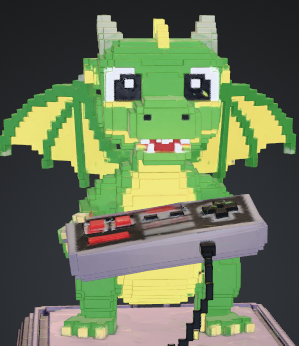
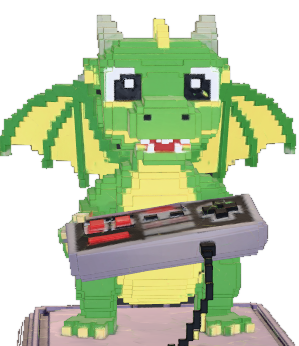
Update characters and transparent assets

diff --git a/public/play/index.html b/public/play/index.html
@@ -12,7 +12,7 @@
   <link rel="manifest" href="/manifest.webmanifest">
   <link rel="apple-touch-icon" href="/icons/icon.svg">
   <title>בראול כלווי - BrawlClaUi</title>
-  <link rel="stylesheet" href="style.css?v=61">
+  <link rel="stylesheet" href="style.css?v=62">
 </head>
 <body>
   <section id="lobby" class="lobby">
@@ -38,12 +38,12 @@
     </section>
     <label data-i18n="brawlerLabel">YOUR BRAWLER</label>
     <div id="characters" class="choice-grid">
-      <button data-character="blaze" class="selected"><span class="portrait blaze"></span><img class="char-img" src="/characters/blaze.png?v=43" alt="" onerror="this.hidden=true"><span data-i18n="bobName">Bob</span><small data-i18n="blazeDesc"></small></button>
-      <button data-character="boomer" class="locked"><span class="portrait boomer"></span><img class="char-img" src="/characters/boomer.png?v=43" alt="" onerror="this.hidden=true"><span data-i18n="boomerName">Boomer</span><small data-i18n="boomerDesc"></small></button>
-      <button data-character="fangli" class="locked"><span class="portrait fangli"></span><img class="char-img" src="/characters/fangli.png?v=43" alt="" onerror="this.hidden=true"><span data-i18n="fangliName">Fangli</span><small data-i18n="fangliDesc">Long bone shot</small></button>
-      <button data-character="pixel"><span class="portrait pixel"></span><img class="char-img" src="/characters/pixel.png?v=43" alt="" onerror="this.hidden=true"><span data-i18n="pixelName">Pixel</span><small data-i18n="pixelDesc">Ricochet laser</small></button>
-      <button data-character="tank" class="locked"><span class="portrait tank"></span><img class="char-img" src="/characters/tank.png?v=43" alt="" onerror="this.hidden=true"><span data-i18n="auroraName">Aurora</span><small data-i18n="tankDesc">Snowstorm + ice field</small></button>
-      <button data-character="bazaar"><span class="portrait bazaar"></span><img class="char-img" src="/characters/bazaar.png?v=43" alt="" onerror="this.hidden=true"><span data-i18n="bazaarName">Bazaar</span><small data-i18n="bazaarDesc">Coin chain + buff box</small></button>
+      <button data-character="blaze" class="selected"><span class="portrait blaze"></span><img class="char-img" src="/characters/blaze.png?v=62" alt="" onerror="this.hidden=true"><span data-i18n="bobName">Bob</span><small data-i18n="blazeDesc"></small></button>
+      <button data-character="boomer" class="locked"><span class="portrait boomer"></span><img class="char-img" src="/characters/boomer.png?v=62" alt="" onerror="this.hidden=true"><span data-i18n="boomerName">Boomer</span><small data-i18n="boomerDesc"></small></button>
+      <button data-character="fangli" class="locked"><span class="portrait fangli"></span><img class="char-img" src="/characters/fangli.png?v=62" alt="" onerror="this.hidden=true"><span data-i18n="fangliName">Fangli</span><small data-i18n="fangliDesc">Long bone shot</small></button>
+      <button data-character="pixel"><span class="portrait pixel"></span><img class="char-img" src="/characters/pixel.png?v=62" alt="" onerror="this.hidden=true"><span data-i18n="pixelName">Pixel</span><small data-i18n="pixelDesc">Ricochet laser</small></button>
+      <button data-character="tank" class="locked"><span class="portrait tank"></span><img class="char-img" src="/characters/tank.png?v=62" alt="" onerror="this.hidden=true"><span data-i18n="auroraName">Aurora</span><small data-i18n="tankDesc">Snowstorm + ice field</small></button>
+      <button data-character="bazaar"><span class="portrait bazaar"></span><img class="char-img" src="/characters/bazaar.png?v=62" alt="" onerror="this.hidden=true"><span data-i18n="bazaarName">Bazaar</span><small data-i18n="bazaarDesc">Coin chain + buff box</small></button>
     </div>
 
     <label data-i18n="modeLabel">GAME MODE</label>
@@ -119,59 +119,65 @@
       </div>
     </div>
 
+    <section class="admin-section admin-command-section">
+      <label for="admin-command-search" data-i18n="adminCommandSearchLabel">COMMAND SEARCH</label>
+      <input id="admin-command-search" type="search" autocomplete="off" placeholder="Search command" data-i18n-placeholder="adminCommandSearchPlaceholder">
+      <small id="admin-command-hint"></small>
+    </section>
+
     <section class="admin-section">
       <label for="admin-google-account" data-i18n="adminFindSection">FIND PLAYER</label>
       <div class="admin-inline">
-        <input id="admin-google-account" type="email" autocomplete="email" placeholder="Google account" data-i18n-placeholder="adminGooglePlaceholder">
-        <button id="admin-add-google" type="button" data-i18n="adminFindGoogle">Find</button>
+        <input id="admin-google-account" type="email" autocomplete="email" placeholder="Google account" data-i18n-placeholder="adminGooglePlaceholder" data-admin-command="find player search google email account חפש שחקן חשבון גוגל אימייל">
+        <button id="admin-add-google" type="button" data-i18n="adminFindGoogle" data-admin-command="find player search google email חפש שחקן חשבון גוגל">Find</button>
       </div>
     </section>
 
     <section class="admin-section">
       <label for="admin-list" data-i18n="adminAdminsSection">ADMINS</label>
-      <input id="admin-email" type="email" autocomplete="email" placeholder="Admin email" data-i18n-placeholder="adminEmailPlaceholder">
+      <input id="admin-email" type="email" autocomplete="email" placeholder="Admin email" data-i18n-placeholder="adminEmailPlaceholder" data-admin-command="admin email add remove אדמין מנהל הוסף הסר">
       <select id="admin-list"></select>
       <div class="admin-actions two">
-        <button id="admin-add-admin" type="button" data-i18n="adminAddAdmin">Add admin</button>
-        <button id="admin-remove-admin" type="button" data-i18n="adminRemoveAdmin">Remove admin</button>
+        <button id="admin-add-admin" type="button" data-i18n="adminAddAdmin" data-admin-command="add admin manager הוסף אדמין מנהל">Add admin</button>
+        <button id="admin-remove-admin" type="button" data-i18n="adminRemoveAdmin" data-admin-command="remove admin manager הסר אדמין מנהל">Remove admin</button>
       </div>
     </section>
 
     <section class="admin-section">
       <label for="admin-player" data-i18n="adminTargetSection">TARGET PLAYER</label>
-      <select id="admin-player"></select>
+      <select id="admin-player" data-admin-command="target player choose select lobby יעד שחקן בחר לובי"></select>
       <div id="admin-target-info" class="admin-target-info"></div>
     </section>
 
     <section class="admin-section">
       <label for="admin-character" data-i18n="adminCharactersSection">CHARACTERS</label>
-      <select id="admin-character"></select>
+      <select id="admin-character" data-admin-command="character brawler choose דמות בחר"></select>
       <div class="admin-actions two">
-        <button id="admin-grant" type="button" data-i18n="adminGrant">Give character</button>
-        <button id="admin-revoke" type="button" data-i18n="adminRevoke">Remove character</button>
+        <button id="admin-grant" type="button" data-i18n="adminGrant" data-admin-command="give grant unlock character brawler תן פתח דמות">Give character</button>
+        <button id="admin-revoke" type="button" data-i18n="adminRevoke" data-admin-command="remove revoke lock character brawler הסר נעל דמות">Remove character</button>
       </div>
     </section>
 
     <section class="admin-section">
       <label data-i18n="adminLiveSection">LIVE CONTROL</label>
       <div class="admin-actions two">
-        <button id="admin-heal" type="button" data-i18n="adminHeal">Heal</button>
-        <button id="admin-eliminate" type="button" data-i18n="adminEliminate">Eliminate</button>
-        <button id="admin-freeze" type="button" data-i18n="adminFreeze">Freeze</button>
-        <button id="admin-teleport" type="button" data-i18n="adminTeleport">Bring here</button>
+        <button id="admin-heal" type="button" data-i18n="adminHeal" data-admin-command="heal health revive רפא חיים החיה">Heal</button>
+        <button id="admin-eliminate" type="button" data-i18n="adminEliminate" data-admin-command="eliminate kill knockout חסל הרוג נוקאאוט">Eliminate</button>
+        <button id="admin-freeze" type="button" data-i18n="adminFreeze" data-admin-command="freeze stop slow הקפא עצור האט">Freeze</button>
+        <button id="admin-teleport" type="button" data-i18n="adminTeleport" data-admin-command="teleport bring here summon שגר הבא אליי">Bring here</button>
       </div>
       <div class="admin-actions">
-        <button id="admin-reset-progress" type="button" data-i18n="adminResetProgress">Reset progress</button>
+        <button id="admin-reset-progress" type="button" data-i18n="adminResetProgress" data-admin-command="reset progress wipe איפוס אפס התקדמות">Reset progress</button>
       </div>
     </section>
 
     <section class="admin-section danger">
       <label data-i18n="adminDangerSection">DANGER</label>
       <div class="admin-actions two">
-        <button id="admin-kick" type="button" data-i18n="adminKick">Kick player</button>
-        <button id="admin-ban" type="button" data-i18n="adminBan">Ban player</button>
+        <button id="admin-kick" type="button" data-i18n="adminKick" data-admin-command="kick remove player העף הוצא שחקן">Kick player</button>
+        <button id="admin-ban" type="button" data-i18n="adminBan" data-admin-command="ban block player באן חסום שחקן">Ban player</button>
       </div>
-      <button id="admin-restart" type="button" data-i18n="adminRestart">Restart game</button>
+      <button id="admin-restart" type="button" data-i18n="adminRestart" data-admin-command="restart reset game room התחל מחדש ריסטארט חדר משחק">Restart game</button>
     </section>
 
     <small id="admin-status"></small>
@@ -208,6 +214,6 @@
   <script src="/shared/runtime.js"></script>
   <script src="/socket.io/socket.io.js"></script>
   <script src="/shared/qr-generator.js"></script>
-  <script src="play.js?v=61"></script>
+  <script src="play.js?v=62"></script>
 </body>
 </html>

diff --git a/public/play/play.js b/public/play/play.js
@@ -33,6 +33,8 @@ const adminRoleBadge = document.querySelector("#admin-role-badge");
 const adminRoomBadge = document.querySelector("#admin-room-badge");
 const adminPlayersBadge = document.querySelector("#admin-players-badge");
 const adminTargetInfo = document.querySelector("#admin-target-info");
+const adminCommandSearch = document.querySelector("#admin-command-search");
+const adminCommandHint = document.querySelector("#admin-command-hint");
 const adminPlayerSelect = document.querySelector("#admin-player");
 const adminCharacterSelect = document.querySelector("#admin-character");
 const adminGoogleAccount = document.querySelector("#admin-google-account");
@@ -79,6 +81,8 @@ let adminVerified = false;
 let adminPanelOpen = false;
 let adminToggleDrag = null;
 let adminListRequestAt = 0;
+let adminLobbyRequestAt = 0;
+let adminLobbyPlayers = [];
 let adminInvincibleMode = localStorage.getItem(adminInvincibleKey) === "1";
 let progressStorageSuffix = "";
 function progressKey(baseKey) {
@@ -108,6 +112,11 @@ const translations = {
     cloudError: "Google save is unavailable",
     adminLabel: "Admin",
     adminPanelTitle: "ADMIN PANEL",
+    adminCommandSearchLabel: "COMMAND SEARCH",
+    adminCommandSearchPlaceholder: "Search commands",
+    adminCommandMatches: "commands found",
+    adminCommandNoMatches: "No matching commands",
+    adminCommandEnterHint: "Press Enter to run the first available command",
     adminRoomLabel: "ROOM",
     adminPlayersLabel: "PLAYERS",
     adminFindSection: "FIND PLAYER",
@@ -251,6 +260,11 @@ const translations = {
     cloudError: "\u05e9\u05de\u05d9\u05e8\u05ea Google \u05dc\u05d0 \u05d6\u05de\u05d9\u05e0\u05d4",
     adminLabel: "\u05d0\u05d3\u05de\u05d9\u05df",
     adminPanelTitle: "\u05e4\u05d0\u05e0\u05dc \u05d0\u05d3\u05de\u05d9\u05df",
+    adminCommandSearchLabel: "\u05d7\u05d9\u05e4\u05d5\u05e9 \u05e4\u05e7\u05d5\u05d3\u05d4",
+    adminCommandSearchPlaceholder: "\u05d7\u05e4\u05e9 \u05e4\u05e7\u05d5\u05d3\u05d4",
+    adminCommandMatches: "\u05e4\u05e7\u05d5\u05d3\u05d5\u05ea \u05e0\u05de\u05e6\u05d0\u05d5",
+    adminCommandNoMatches: "\u05d0\u05d9\u05df \u05e4\u05e7\u05d5\u05d3\u05d5\u05ea \u05ea\u05d5\u05d0\u05de\u05d5\u05ea",
+    adminCommandEnterHint: "\u05d0\u05e0\u05d8\u05e8 \u05d9\u05e4\u05e2\u05d9\u05dc \u05d0\u05ea \u05d4\u05e4\u05e7\u05d5\u05d3\u05d4 \u05d4\u05e8\u05d0\u05e9\u05d5\u05e0\u05d4 \u05d4\u05d6\u05de\u05d9\u05e0\u05d4",
     adminRoomLabel: "\u05d7\u05d3\u05e8",
     adminPlayersLabel: "\u05e9\u05d7\u05e7\u05e0\u05d9\u05dd",
     adminFindSection: "\u05d7\u05d9\u05e4\u05d5\u05e9 \u05e9\u05d7\u05e7\u05df",
@@ -517,7 +531,7 @@ let lastCloudSnapshot = "";
 let pendingJoinCode = (new URLSearchParams(location.search).get("join") || "").trim().toUpperCase();
 const characterImages = Object.fromEntries(["blaze", "boomer", "fangli", "pixel", "tank", "bazaar", "mash"].map(id => {
   const image = new Image();
-  image.src = `/characters/${id}.png?v=57`;
+  image.src = `/characters/${id}.png?v=62`;
   return [id, image];
 }));
 const motionState = new Map();
@@ -899,6 +913,16 @@ function requestAdminList() {
   });
 }
 
+function requestAdminLobbyPlayers() {
+  if (!isAdminUser() || !socket.connected || Date.now() - adminLobbyRequestAt < 1200) return;
+  adminLobbyRequestAt = Date.now();
+  socket.emit("admin:listLobby", adminPayload(), reply => {
+    if (!reply?.ok) return;
+    adminLobbyPlayers = Array.isArray(reply.players) ? reply.players : [];
+    renderAdminPanel();
+  });
+}
+
 function identifyAdminInRoom() {
   if (!roomCode || !activeCloudUser()) return;
   socket.emit("admin:identify", adminPayload(), reply => {
@@ -917,6 +941,7 @@ function renderAdminPanel() {
   if (!active) return;
   renderAdminList();
   requestAdminList();
+  requestAdminLobbyPlayers();
   if (adminRoleBadge) adminRoleBadge.textContent = isOwnerUser() ? "OWNER" : t("adminLabel");
   if (adminRoomBadge) adminRoomBadge.textContent = adminTargetRoomCode || roomCode || "----";
   if (adminPlayersBadge) adminPlayersBadge.textContent = String(players.filter(player => !player.bot).length);
@@ -924,13 +949,18 @@ function renderAdminPanel() {
   const selectablePlayers = players.filter(player => !player.bot && player.id !== playerId);
   const remoteTarget = adminFoundTarget && adminFoundTarget.roomCode !== roomCode ? adminFoundTarget : null;
   const playerOptions = selectablePlayers.map(player => `<option value="${escapeHtml(player.id)}">${escapeHtml(player.name)}${player.admin ? ` (${t("adminLabel")})` : ""}</option>`);
-  if (remoteTarget && !selectablePlayers.some(player => player.id === remoteTarget.id)) {
+  for (const lobbyPlayer of adminLobbyPlayers) {
+    if (!playerOptions.some(option => option.includes(`value="${escapeHtml(lobbyPlayer.id)}"`))) {
+      playerOptions.push(`<option value="${escapeHtml(lobbyPlayer.id)}">${escapeHtml(lobbyPlayer.name)} (${escapeHtml(t("adminLobby"))})</option>`);
+    }
+  }
+  if (remoteTarget && !selectablePlayers.some(player => player.id === remoteTarget.id) && !adminLobbyPlayers.some(player => player.id === remoteTarget.id)) {
     playerOptions.push(`<option value="${escapeHtml(remoteTarget.id)}">${escapeHtml(remoteTarget.name)} (${escapeHtml(remoteTarget.lobby ? t("adminLobby") : remoteTarget.roomCode)})</option>`);
   }
   adminPlayerSelect.innerHTML = playerOptions.length
     ? playerOptions.join("")
     : `<option value="">${roomCode ? t("adminNoPlayers") : t("adminNoRoom")}</option>`;
-  if (selectablePlayers.some(player => player.id === previousPlayer) || remoteTarget?.id === previousPlayer) adminPlayerSelect.value = previousPlayer;
+  if (selectablePlayers.some(player => player.id === previousPlayer) || adminLobbyPlayers.some(player => player.id === previousPlayer) || remoteTarget?.id === previousPlayer) adminPlayerSelect.value = previousPlayer;
   else {
     adminTargetRoomCode = "";
     adminFoundTarget = null;
@@ -940,8 +970,12 @@ function renderAdminPanel() {
     .map(character => `<option value="${character}">${escapeHtml(characterLabel(character))}</option>`)
     .join("");
   if (adminGrantCharacters.includes(previousCharacter)) adminCharacterSelect.value = previousCharacter;
+  const selectedTarget = players.find(player => player.id === adminPlayerSelect.value) || adminLobbyPlayers.find(player => player.id === adminPlayerSelect.value) || remoteTarget || null;
+  if (selectedTarget?.lobby) adminTargetRoomCode = "LOBBY";
+  else if (adminFoundTarget?.id === adminPlayerSelect.value) adminTargetRoomCode = adminFoundTarget.roomCode;
+  else if (adminTargetRoomCode === "LOBBY") adminTargetRoomCode = "";
+  if (adminRoomBadge) adminRoomBadge.textContent = adminTargetRoomCode || roomCode || "----";
   const hasTarget = Boolean((adminTargetRoomCode || roomCode) && adminPlayerSelect.value);
-  const selectedTarget = players.find(player => player.id === adminPlayerSelect.value) || remoteTarget || null;
   const targetInLobby = Boolean(selectedTarget?.lobby || adminTargetRoomCode === "LOBBY");
   renderAdminTargetInfo(selectedTarget);
   if (adminGrant) adminGrant.disabled = !hasTarget;

diff --git a/server.js b/server.js
@@ -363,7 +363,7 @@ function joinPlayer(socket, roomCode, playerId, name, character, accountEmail, i
   detachSocket(socket, roomCode);
   const selectedCharacter = PLAYABLE_CHARACTERS.has(character) ? character : "blaze";
   let p = room.players.get(id);
-  const maxHumans = room.mode === "gems" ? 6 : MAX_PLAYERS;
+  const maxHumans = isTeamCombatMode(room) ? 6 : MAX_PLAYERS;
   if (!p && humanPlayers(room).length >= maxHumans) return ack({ ok:false, error:"Room is full" });
   if (p) {
     clearTimeout(p.removeTimer); socketIndex.delete(p.socketId); p.socketId = socket.id; p.connected = true; p.accountEmail = cleanEmail || p.accountEmail || "";
@@ -855,7 +855,7 @@ function iceEffectFor(room, player) {
 }
 function spawnBot(room, now, team = null) {
   const count = [...room.players.values()].filter(p => p.bot).length;
-  const cap = room.mode === "gems" ? 6 : Math.min(9, 2 + Math.floor(room.game.wave / 2));
+  const cap = isTeamCombatMode(room) ? 6 : Math.min(9, 2 + Math.floor(room.game.wave / 2));
   if (count >= cap) return;
   const arena = room.arena, edge = Math.floor(Math.random() * 4), spot = edge === 0 ? { x: 30, y: 80 + Math.random() * (arena.height-160) } : edge === 1 ? { x: arena.width-30, y: 80 + Math.random() * (arena.height-160) } : edge === 2 ? { x: 90 + Math.random() * (arena.width-180), y: 30 } : { x: 90 + Math.random() * (arena.width-180), y: arena.height-30 };
   const character = "mash", hp = CHARACTERS[character].hp + Math.min(45, room.game.wave * 3), id = `bot-${room.code}-${room.game.botSerial++}`;
@@ -896,8 +896,8 @@ function updateSurvival(room, now) {
   }
   if (now >= room.game.nextBotAt) spawnBot(room, now);
 }
-function ensureGemTeams(room, now) {
-  if (room.mode !== "gems") return;
+function ensureTeamBots(room, now) {
+  if (!isTeamCombatMode(room)) return;
   if (!humanPlayers(room).some(p => p.connected)) return;
   const canSpawn = now >= room.game.nextBotAt;
   for (const team of ["red", "blue"]) {
@@ -918,7 +918,7 @@ function ensureGemTeams(room, now) {
 function updateRoom(room, now) {
   if (room.game.winner || room.game.winnerTeam) return;
   if (room.mode === "survival") updateSurvival(room, now);
-  else ensureGemTeams(room, now);
+  else ensureTeamBots(room, now);
   updateBots(room);
   const center = arenaCenter(room.arena);
   if (room.mode === "showdown") room.game.safeRadius = Math.max(90, arenaSafeRadius(room.arena) - (now-room.game.startedAt)/520);
@@ -1054,6 +1054,14 @@ io.on("connection", socket => {
   socket.on("admin:list", (data={}, ack=()=>{}) => {
     if (!isAdminActor(socket, data)) return ack({ ok:false, error:"Admin only" });
     ack({ ok:true, admins:adminList() });
+  });
+  socket.on("admin:listLobby", (data={}, ack=()=>{}) => {
+    if (!isAdminActor(socket, data)) return ack({ ok:false, error:"Admin only" });
+    const actorEmail = normalizeEmail(data.accountEmail);
+    const players = [...lobbyPlayers.values()]
+      .filter(player => normalizeEmail(player.accountEmail) !== actorEmail)
+      .map(player => ({ id:player.targetId, name:player.name, roomCode:"LOBBY", lobby:true, connected:true }));
+    ack({ ok:true, players });
   });
   socket.on("admin:addAdmin", (data={}, ack=()=>{}) => {
     if (!isAdminActor(socket, data)) return ack({ ok:false, error:"Admin only" });

diff --git a/public/service-worker.js b/public/service-worker.js
@@ -1,5 +1,5 @@
-const CACHE = "brawlclaui-v61";
-const ASSETS = ["/play/", "/play/style.css?v=61", "/play/play.js?v=61", "/characters/blaze.png?v=57", "/characters/boomer.png?v=57", "/characters/fangli.png?v=57", "/characters/pixel.png?v=57", "/characters/tank.png?v=57", "/characters/bazaar.png?v=57", "/characters/mash.png?v=57", "/mobile/", "/mobile/style.css?v=36", "/mobile/controller.js?v=37", "/shared/firebase-progress.js", "/shared/qr-generator.js", "/shared/runtime.js", "/native-config.js", "/manifest.webmanifest", "/icons/icon.svg"];
+const CACHE = "brawlclaui-v62";
+const ASSETS = ["/play/", "/play/style.css?v=62", "/play/play.js?v=62", "/characters/blaze.png?v=62", "/characters/boomer.png?v=62", "/characters/fangli.png?v=62", "/characters/pixel.png?v=62", "/characters/tank.png?v=62", "/characters/bazaar.png?v=62", "/characters/mash.png?v=62", "/mobile/", "/mobile/style.css?v=36", "/mobile/controller.js?v=37", "/shared/firebase-progress.js", "/shared/qr-generator.js", "/shared/runtime.js", "/native-config.js", "/manifest.webmanifest", "/icons/icon.svg"];
 self.addEventListener("install", event => event.waitUntil(caches.open(CACHE).then(cache => cache.addAll(ASSETS)).then(() => self.skipWaiting())));
 self.addEventListener("activate", event => event.waitUntil(caches.keys().then(keys => Promise.all(keys.filter(key => key !== CACHE).map(key => caches.delete(key)))).then(() => self.clients.claim())));
 self.addEventListener("fetch", event => {
